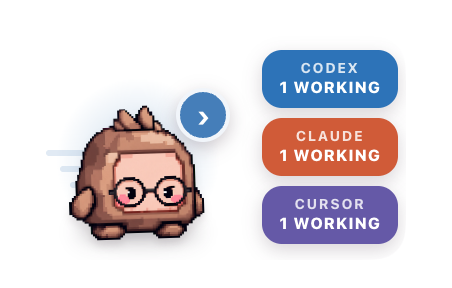
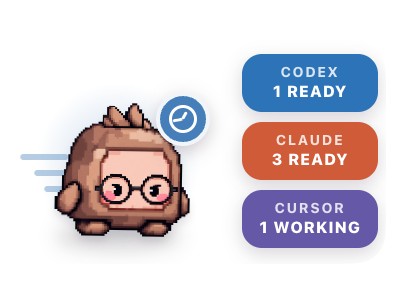
Update README hero screenshot

Changed region(s): [[0.5644, 0.1562, 0.9505, 0.875], [0.0297, 0.3125, 0.5347, 0.875]]

diff --git a/README.md b/README.md
@@ -5,7 +5,7 @@ QPet is a small, floating macOS companion for local Codex, Claude Code, and Curs
 QPet is open source under the [MIT License](LICENSE). It is a personal, local-first app: no account, cloud service, or telemetry is required.
 
 <p align="center">
-  <img src="docs/screenshots/qpet-working.png" alt="QPet showing active Codex, Claude, and Cursor sessions" width="452">
+  <img src="docs/screenshots/qpet-working.png" alt="QPet showing active Codex, Claude, and Cursor sessions" width="404">
 </p>
 
 ## V0 behavior